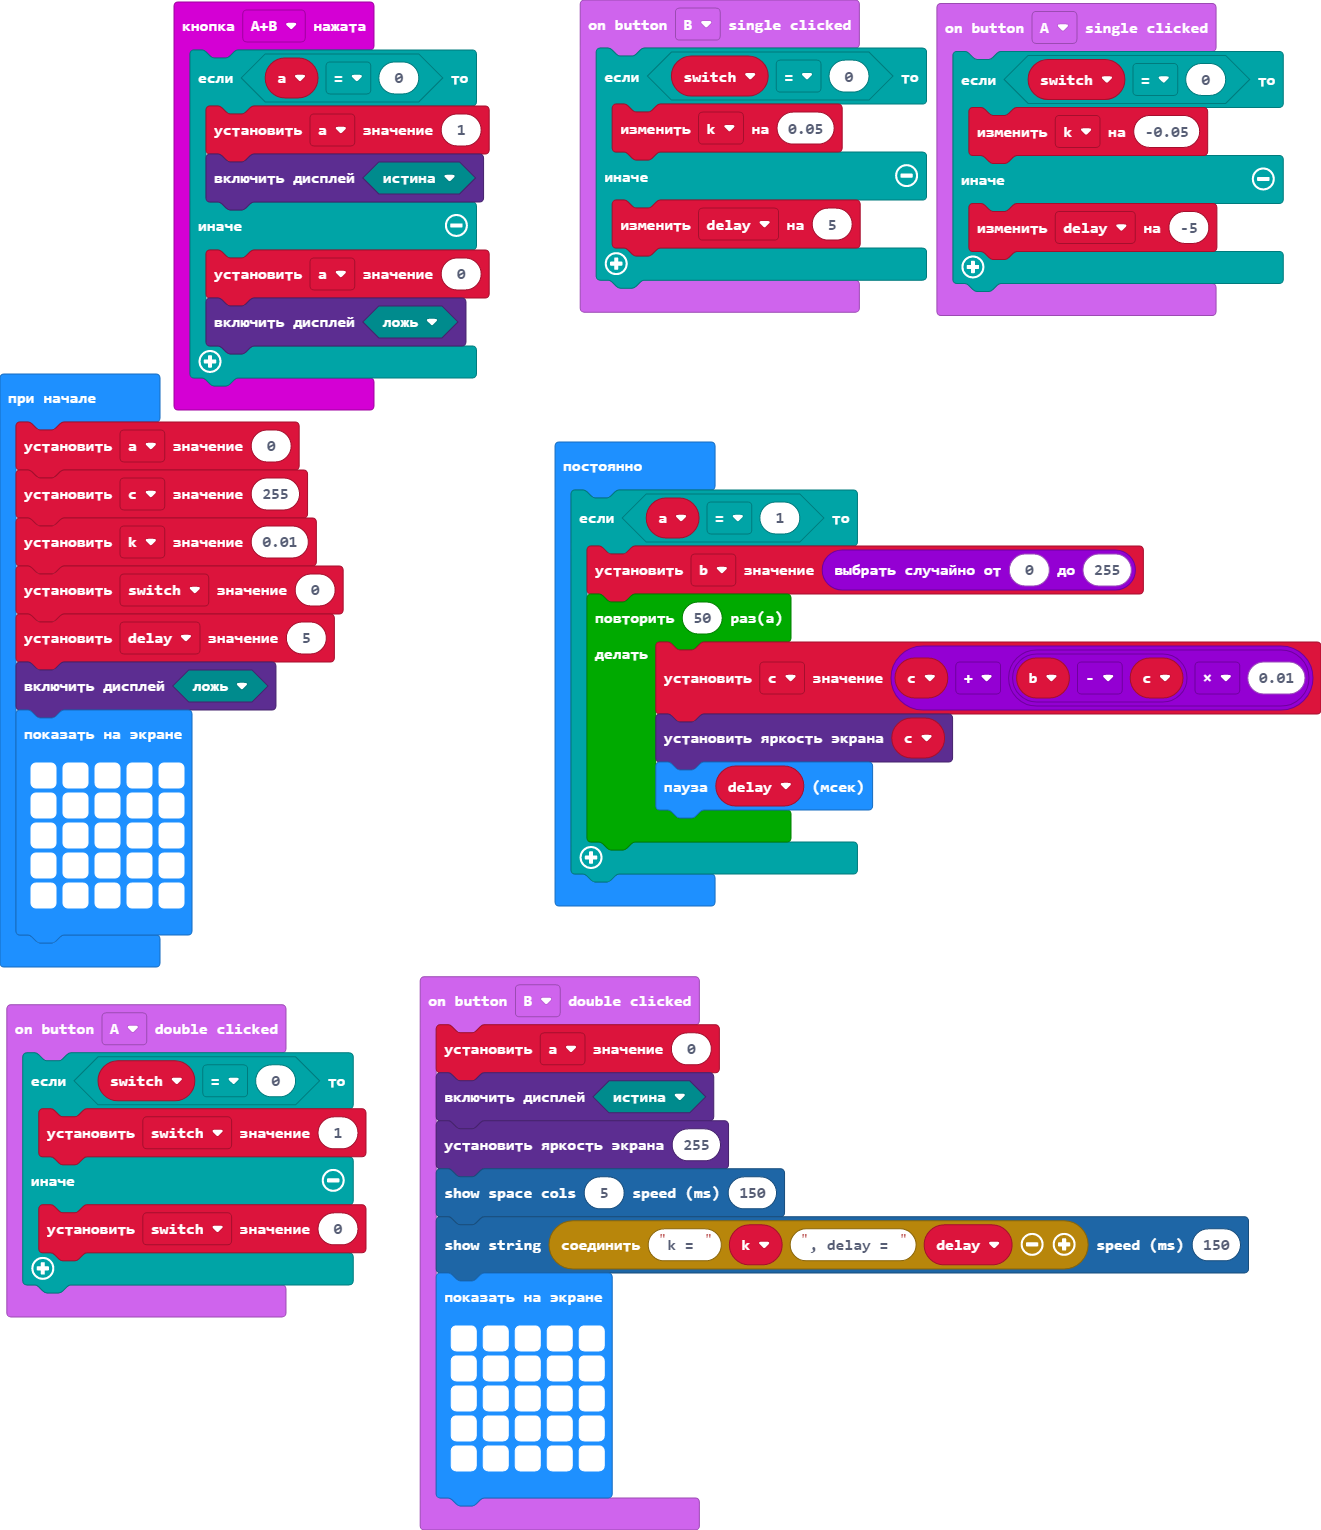
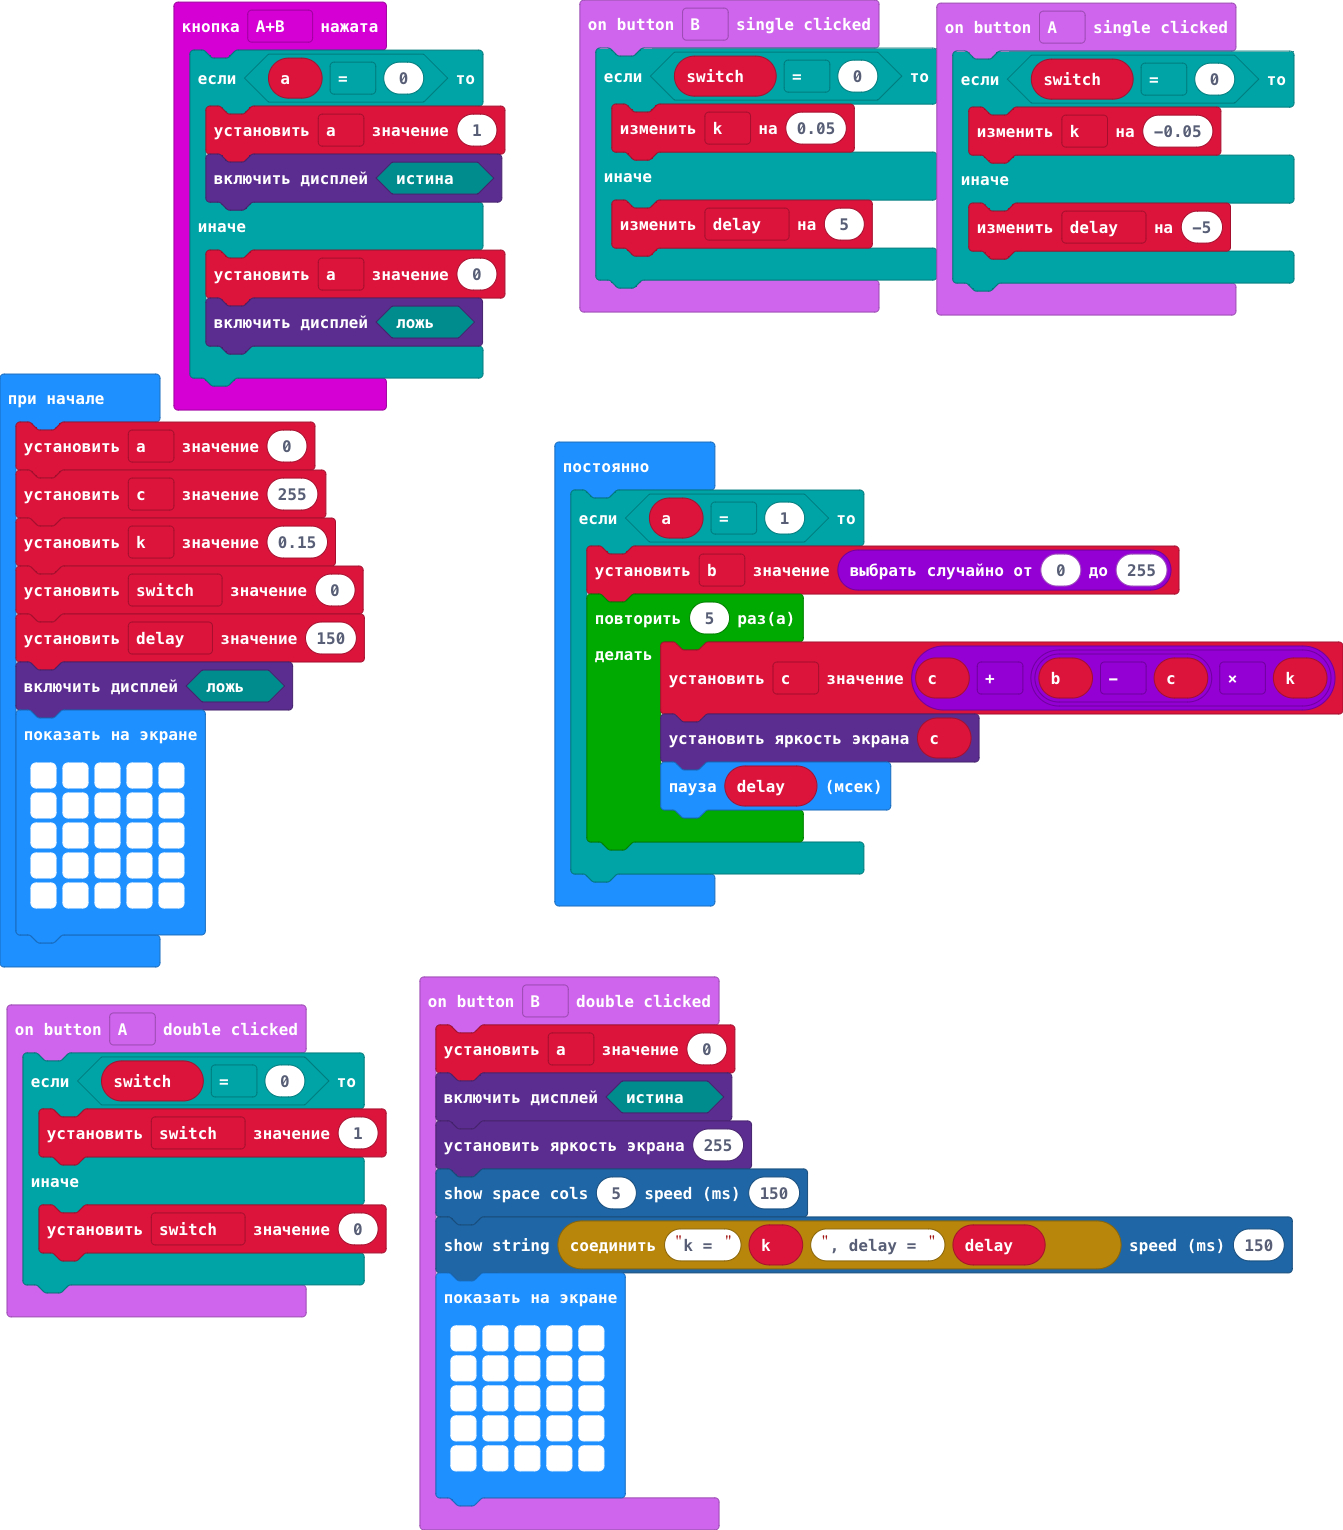
0.15

diff --git a/main.ts b/main.ts
@@ -49,9 +49,9 @@ let k = 0
 let a = 0
 a = 0
 let c = 255
-k = 0.01
+k = 0.15
 _switch = 0
-delay = 5
+delay = 150
 led.enable(false)
 basic.showLeds(`
     # # # # #
@@ -63,8 +63,8 @@ basic.showLeds(`
 basic.forever(function () {
     if (a == 1) {
         b = randint(0, 255)
-        for (let index = 0; index < 50; index++) {
-            c = c + (b - c) * 0.01
+        for (let index = 0; index < 5; index++) {
+            c = c + (b - c) * k
             led.setBrightness(c)
             basic.pause(delay)
         }
